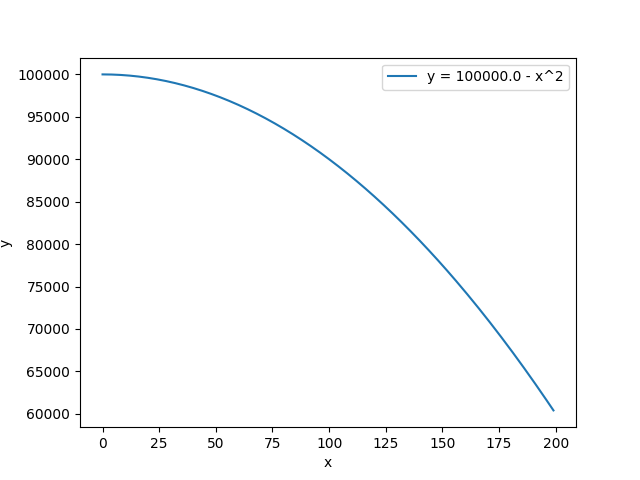
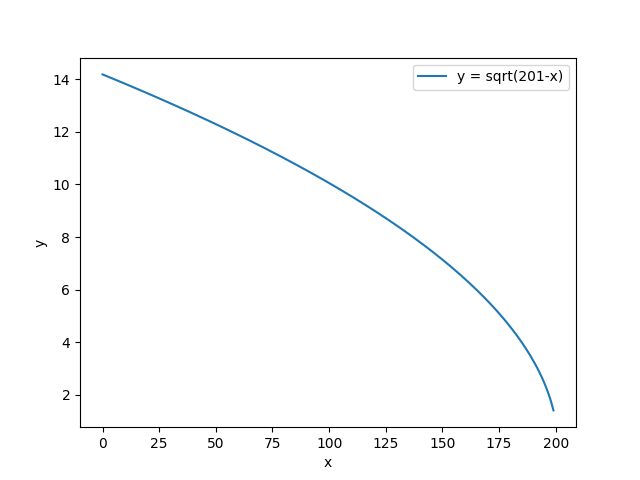
sqrt (1-x)

diff --git a/x-sq.py b/x-sq.py
@@ -1,9 +1,10 @@
 import matplotlib.pyplot as plt
+import math
 
-P = 1e5
+P = 201
 # Define the function
 def func(x):
-  return P - x**2
+  return math.sqrt(P - x)
 
 # Define the x-axis values
 x = range(0, 200)  # Adjust the range if needed
@@ -12,7 +13,7 @@ x = range(0, 200)  # Adjust the range if needed
 y = [func(i) for i in x]
 
 # Create the plot
-plt.plot(x, y, label=f"y = {P} - x^2")
+plt.plot(x, y, label=f"y = sqrt(201-x)")
 
 # Add labels and title
 plt.xlabel("x")
